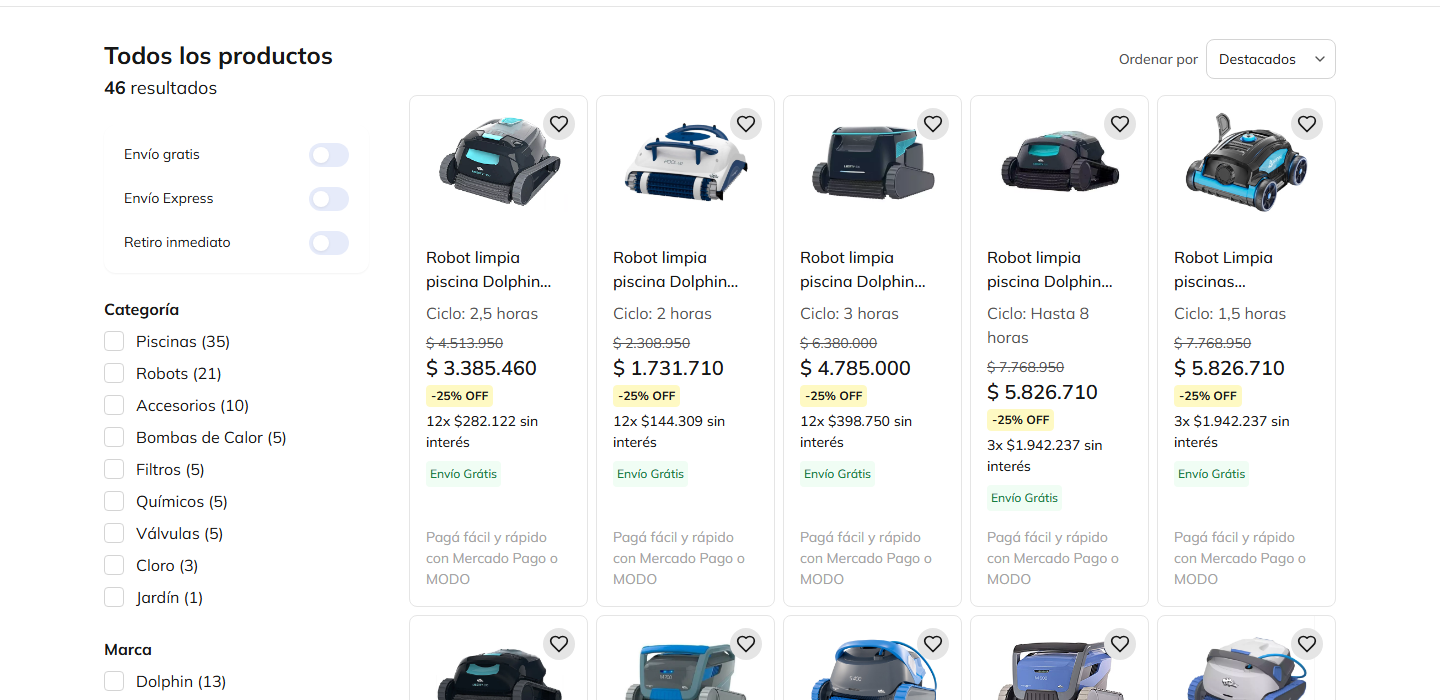
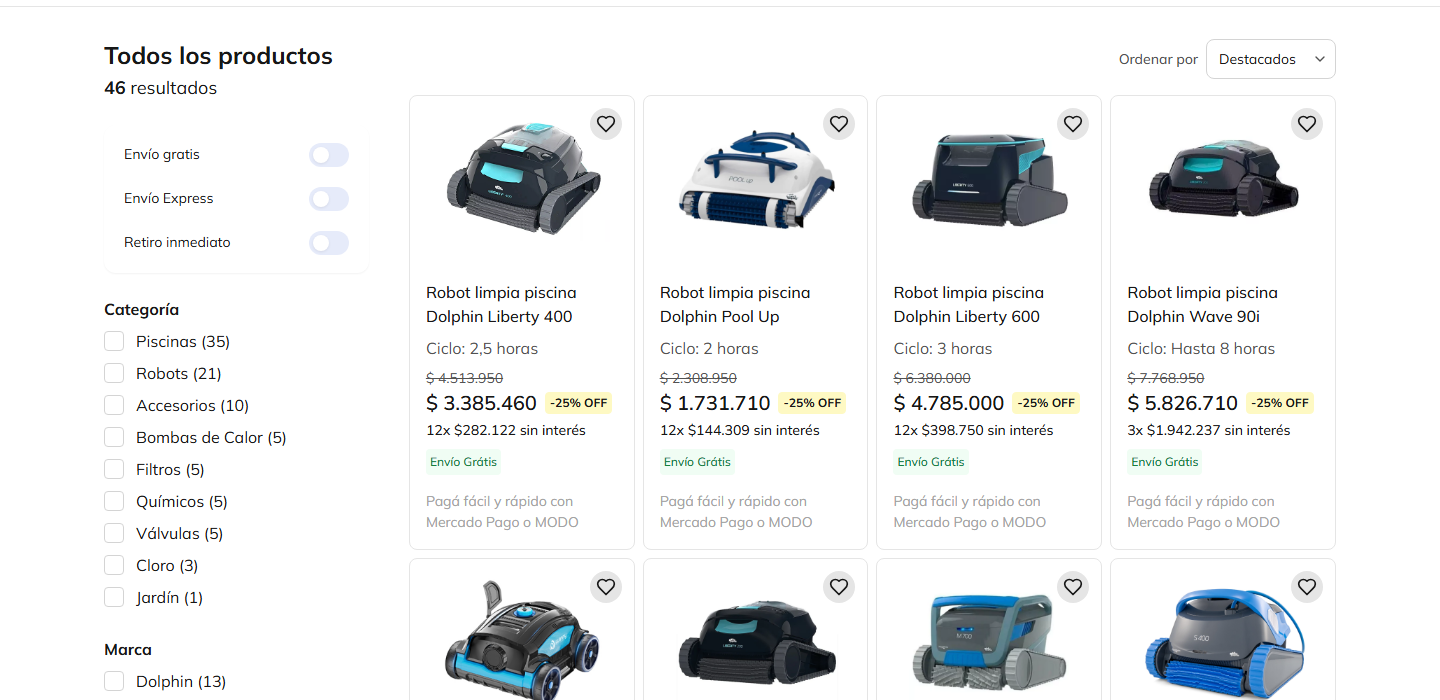
style(listado): grilla de Productos en 4 columnas (la portada sigue en 5)

Changed region(s): [[0.2812, 0.36, 0.9375, 1.0], [0.2812, 0.15, 0.9062, 0.33]]

diff --git a/app/productos/page.tsx b/app/productos/page.tsx
@@ -134,7 +134,7 @@ function CatalogContent() {
           </div>
 
           {isLoading ? (
-            <div className="grid grid-cols-2 md:grid-cols-3 lg:grid-cols-5 gap-2">
+            <div className="grid grid-cols-2 md:grid-cols-3 lg:grid-cols-4 gap-2">
               {Array.from({ length: 8 }).map((_, i) => <ProductCardSkeleton key={i} />)}
             </div>
           ) : filtered.length === 0 ? (
@@ -149,7 +149,7 @@ function CatalogContent() {
               </Button>
             </EmptyState>
           ) : (
-            <div className="grid grid-cols-2 md:grid-cols-3 lg:grid-cols-5 gap-2">
+            <div className="grid grid-cols-2 md:grid-cols-3 lg:grid-cols-4 gap-2">
               {filtered.map((product) => (
                 <ProductCard key={product.id} product={product} titleAs="h2" />
               ))}
@@ -182,7 +182,7 @@ export default function ProductosPage() {
   return (
     <Suspense fallback={
       <div className="max-w-7xl mx-auto px-4 md:px-6 py-8">
-        <div className="grid grid-cols-2 md:grid-cols-3 lg:grid-cols-5 gap-2">
+        <div className="grid grid-cols-2 md:grid-cols-3 lg:grid-cols-4 gap-2">
           {Array.from({ length: 8 }).map((_, i) => <ProductCardSkeleton key={i} />)}
         </div>
       </div>

diff --git a/app/productos/loading.tsx b/app/productos/loading.tsx
@@ -24,7 +24,7 @@ export default function ProductosLoading() {
       </Row>
 
       {/* Grid de productos */}
-      <div className="grid grid-cols-2 md:grid-cols-3 lg:grid-cols-5 gap-2">
+      <div className="grid grid-cols-2 md:grid-cols-3 lg:grid-cols-4 gap-2">
         {Array.from({ length: 8 }).map((_, i) => <ProductCardSkeleton key={i} />)}
       </div>
     </div>
